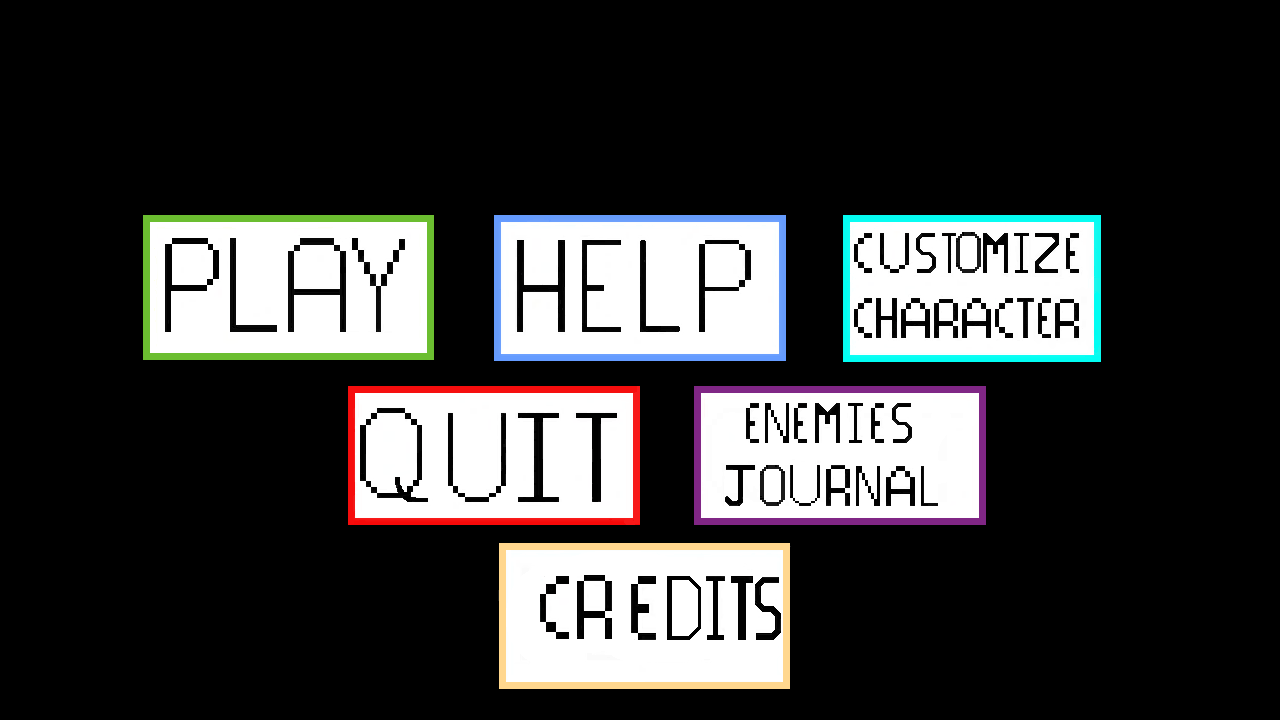
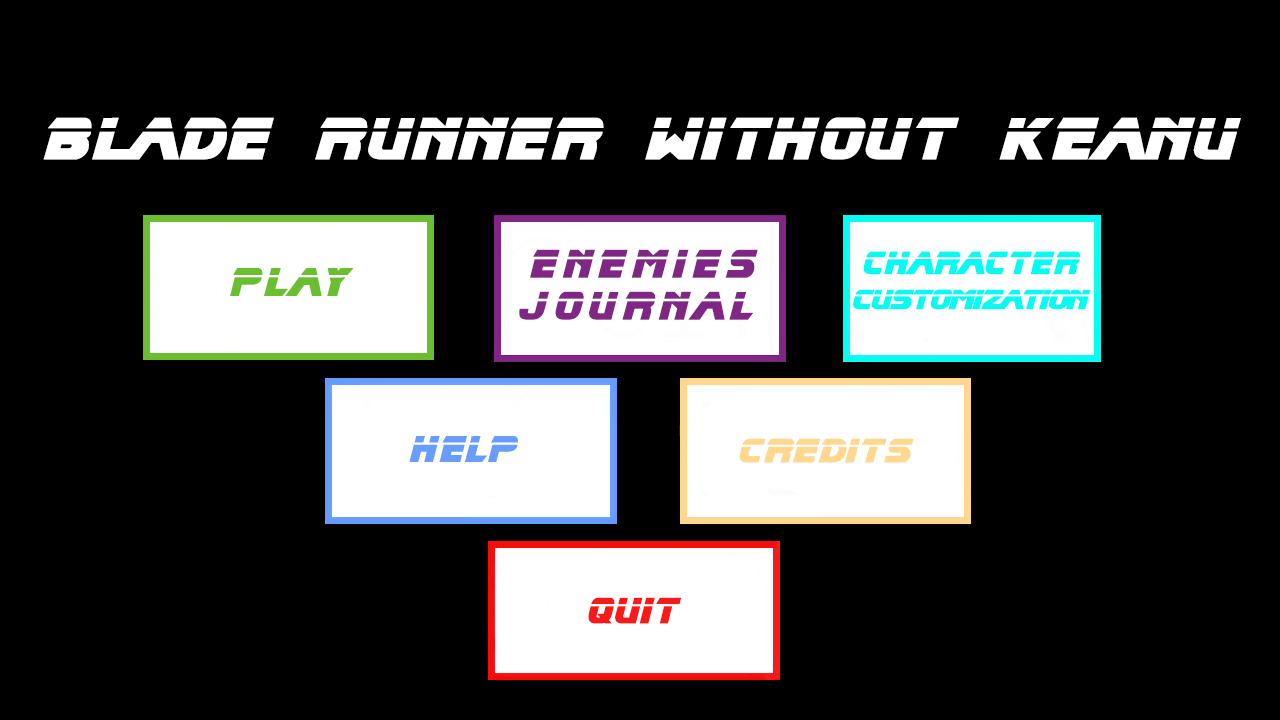
did the menus added game mode menu

diff --git a/mainGame/gui/Menu.java b/mainGame/gui/Menu.java
@@ -53,12 +53,7 @@ public class Menu {
 		} catch (Exception e) {
 			e.printStackTrace();
 		}
-//		try {
-//			URL imageURL = Game.class.getResource("images/paintbucket.png");
-//			img2 = Toolkit.getDefaultToolkit().getImage(imageURL);
-//		} catch (Exception e) {
-//			e.printStackTrace();
-//		}
+
 	}
 	public void tick() {
 		timer--;
@@ -83,39 +78,11 @@ public class Menu {
 				e.printStackTrace();
 			}
 			
-			Button b1 = new Button(50, 150, 350, 100);
-			b1.setText("Waves");
-			Button b2 = new Button(50, 300, 350, 100);
-			b2.setText("Bosses");
-			Button b3 = new Button(50, 450, 350, 100);
-			b3.setText("Survival");
-			Button b4 = new Button(450, 150, 350, 100);
-			b4.setText("Credits");
-			Button b5 = new Button(450, 300, 350, 100);
-			b5.setText("Help");
-//			Button b6 = new Button(450, 450, 350, 100);
-//			b6.setText("Quit");
-//			Button b7 = new Button(850, 150, 350, 100);
-//			b7.setText("E J");
-			
-			Font font = new Font("Amoebic", 1, 80);
-			g.setFont(font);
-			g.setColor(Color.WHITE);
-			g.drawString("Unknown Battleland", 200, 100);
-			
-			b1.render(g);
-			b2.render(g);
-			b3.render(g);
-			b4.render(g);
-			b5.render(g);
-//			b6.render(g);
-//			b7.render(g);
       
 		} else if (game.gameState == STATE.Help) {// if the user clicks on
 			// "help"
 			g.drawImage(img, 0, 0, Game.WIDTH, Game.HEIGHT, null);
 			handler.render(g);
-
 			img = null;
 
 			try {
@@ -196,18 +163,7 @@ public class Menu {
 			} catch (Exception e) {
 				e.printStackTrace();
 			}
-//			try {
-//				URL imageURL = Game.class.getResource("images/drawing.png");
-//				raytracing = Toolkit.getDefaultToolkit().getImage(imageURL);
-//			} catch (Exception e) {
-//				e.printStackTrace();
-//			}
-//			try {
-//				URL imageURL = Game.class.getResource("images/hoffmanpic.jpg");
-//				hoffmanpic = Toolkit.getDefaultToolkit().getImage(imageURL);
-//			} catch (Exception e) {
-//				e.printStackTrace();
-//			}
+
 			
 			
 			Font font = new Font("arial black", 1, 33);
@@ -334,6 +290,24 @@ public class Menu {
 			g.drawString("Left/Right: Two enemies that will move in ", 825, 415);
 			g.drawString("opposite directions", 825, 435);
 			
+		} else if (game.gameState == STATE.gameMode) {
+			g.drawImage(img, 0, 0, Game.WIDTH, Game.HEIGHT, null);
+			handler.render(g);	
+			img = null;
+			
+			try {
+				URL imageURL = Game.class.getResource("images/gameModeMenu.png");
+				img = Toolkit.getDefaultToolkit().getImage(imageURL);
+			} catch (Exception e) {
+				e.printStackTrace();
+			}
+			
+			Font font2 = new Font("arial", 1, 33);
+			
+			g.setFont(font2);
+			g.setColor(Color.white);
+			g.drawRect(566, 590, 133, 42);
+			g.drawString("Back", 595, 620);
 		}
 	}
 }

diff --git a/mainGame/input/MouseListener.java b/mainGame/input/MouseListener.java
@@ -103,51 +103,63 @@ public class MouseListener extends MouseAdapter {
 			}
 
 			else if (game.gameState == STATE.Menu) {
-				// Waves Button
-				if (mouseOver(mx, my, 50, 150, 350, 100)) {
-					handler.object.clear();
-					game.gameState = STATE.Wave;
-					handler.addObject(player);
-				}
-				// Bosses Mode
-				else if (mouseOver(mx, my, 50, 300, 350, 100)) {
-					handler.object.clear();
-					game.gameState = STATE.Bosses;
-					handler.addObject(player);
-				}
-				// Survival Mode
-				else if (mouseOver(mx, my, 50, 450, 350, 100)) {
-					hud.setScore(0);
-					handler.object.clear();
-					game.gameState = STATE.Survival;
-					handler.addObject(player);
-				}
+
 				// Credits Button
-				else if (mouseOver(mx, my, 450, 150, 350, 100)) {
+				 if (mouseOver(mx, my, 680, 400, 290, 145)) {
 					game.gameState = STATE.Credits;
+					
 				} 
 				// Help Button
-				else if (mouseOver(mx, my, 450, 300, 350, 100)) {
+				else if (mouseOver(mx, my, 300, 400, 290, 145 )) {
 					game.gameState = STATE.Help;
 				}
 				// Quit Button
-				else if (mouseOver(mx, my, 350, 400, 295, 125)) {
+				else if (mouseOver(mx, my, 475, 535, 290, 145)) {
 					System.exit(1);
 				}
 				// Color Picker Mode
-				else if (mouseOver(mx, my, 830, 200, 280, 160)) {
+				else if (mouseOver(mx, my, 840, 215, 290, 145)) {
 					handler.object.clear();
 					game.gameState = STATE.Color;
 					handler.addObject(player);
 				}
 				// Enemy Journal Button
-				else if (mouseOver(mx, my, 600, 450, 290, 85)) {
+				else if (mouseOver(mx, my, 495, 215, 290, 145)) {
 					game.gameState = STATE.EnemyJournal;
 				}
+				//Play button
+				else if(mouseOver(mx, my, 150, 215, 290, 145)) {
+					game.gameState = STATE.gameMode;
+				}
+				
 			}
 			// Back Button for Help screen
 			else if (game.gameState == STATE.Help) {
 				if (mouseOver(mx, my, 566, 590, 133, 42)) {
+					game.gameState = STATE.Menu;
+					return;
+				}
+			}
+			else if (game.gameState == STATE.gameMode) {
+				//waves button
+				if (mouseOver(mx,my, 80, 230, 290, 145 )) {
+					game.gameState = STATE.Wave;
+					handler.object.clear();
+					handler.addObject(player);
+				} //bosses button	
+				else if (mouseOver(mx, my, 495, 230, 290, 145)) {
+						handler.object.clear();
+						game.gameState = STATE.Bosses;
+						handler.addObject(player);
+				}
+				else if (mouseOver(mx, my, 890, 230, 290, 145)) {
+					hud.setScore(0);
+					handler.object.clear();
+					game.gameState = STATE.Survival;
+					handler.addObject(player);
+				}//back button for game mode screen
+				
+				else if (mouseOver(mx, my, 566, 590, 133, 42)) {
 					game.gameState = STATE.Menu;
 					return;
 				}

diff --git a/mainGame/Game.java b/mainGame/Game.java
@@ -70,7 +70,7 @@ public class Game extends Canvas implements Runnable {
 	 * Used to switch between each of the screens shown to the user
 	 */
 	public enum STATE {
-		Menu, Help, Join, Host, Wave, GameOver, Upgrade, Bosses, Survival, Multiplayer, 
+		Menu, gameMode, Help, Join, Host, Wave, GameOver, Upgrade, Bosses, Survival, Multiplayer, 
 		Leaderboard, Color, LeaderboardDisplay, Credits, WonWaves, EnemyJournal
 	};
 
@@ -282,7 +282,7 @@ public class Game extends Canvas implements Runnable {
 						|| gameState == STATE.Bosses || gameState == STATE.Survival) {
 					// user is playing game, draw game objects
 					hud.render(g);
-				} else if (gameState == STATE.Menu || gameState == STATE.Help || gameState == STATE.Credits || gameState == STATE.EnemyJournal) {
+				} else if (gameState == STATE.Menu || gameState == STATE.Help || gameState == STATE.Credits || gameState == STATE.EnemyJournal || gameState == STATE.gameMode) {
 					// user is in the main menu, help, credits, or enemy journal, draw the menu and help objects
 					menu.render(g);
 				} else if (gameState == STATE.Upgrade) {// user is on the upgrade
